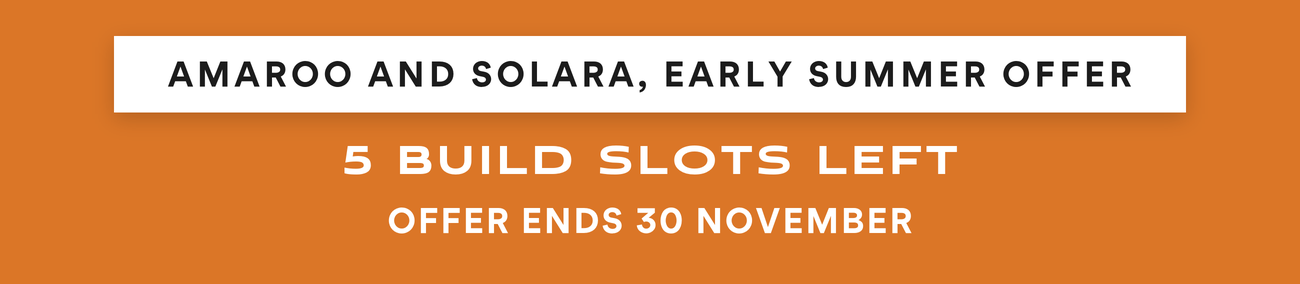
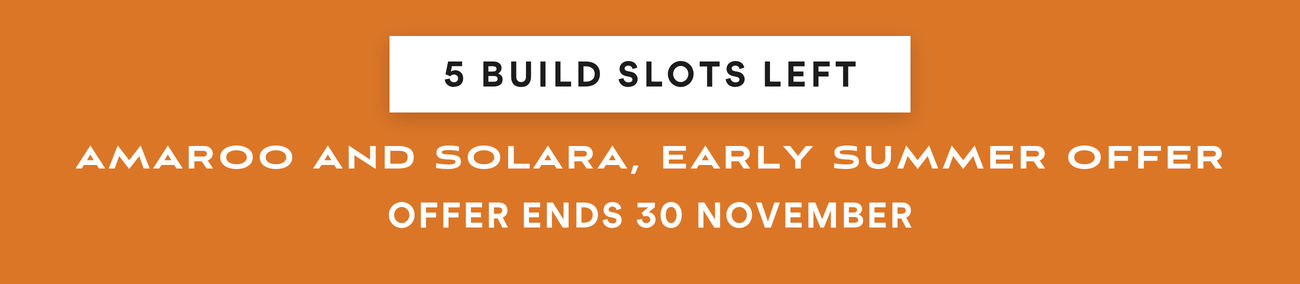
Offer email: band reordered (5 BUILD SLOTS LEFT in the box), countdown timer, upgrade valued at over $6,000 (Piyush 23 Nov 2026)

Changed region(s): [[0.0615, 0.1127, 0.9231, 0.4225], [0.0615, 0.507, 0.9538, 0.6197], [0.2769, 0.7042, 0.7077, 0.8169]]

diff --git a/offer-email/offer-email.html b/offer-email/offer-email.html
@@ -41,19 +41,20 @@ img{border:0;display:block;outline:none;text-decoration:none;-ms-interpolation-m
 
 <!-- DRAFT COPY: replace from COPY.md -->
   <tr><td style="font-size:0;line-height:0;"><a href="https://wonderlandrv.com.au/range/?utm_source=ActiveCampaign&amp;utm_medium=email&amp;utm_campaign=early-summer-upgrades&amp;utm_content=promo-final-hero" target="_blank"><img class="stackimg" src="hero-upto7500.gif" alt="Up to $7,500 in total value, on us. A Wonderland RV Amaroo and Solara on the road" width="650" height="420" style="width:650px;height:420px;display:block;font-family:arial,'helvetica neue',helvetica,sans-serif;font-size:16px;line-height:24px;color:#333333;"></a></td></tr>
-  <tr><td bgcolor="#DB7627" style="background:#DB7627;font-size:0;line-height:0;padding:0;"><img class="stackimg" src="img/band-5-slots.png" alt="Amaroo and Solara, early summer offer. 5 build slots left. Offer ends 30 November." width="650" height="142" style="width:650px;height:142px;display:block;font-family:arial,'helvetica neue',helvetica,sans-serif;font-size:15px;line-height:22px;font-weight:bold;color:#ffffff;text-align:center;"></td></tr>
+  <tr><td bgcolor="#DB7627" style="background:#DB7627;font-size:0;line-height:0;padding:0;"><img class="stackimg" src="img/band-5-slots.png" alt="5 build slots left. Amaroo and Solara, early summer offer. Offer ends 30 November." width="650" height="142" style="width:650px;height:142px;display:block;font-family:arial,'helvetica neue',helvetica,sans-serif;font-size:15px;line-height:22px;font-weight:bold;color:#ffffff;text-align:center;"></td></tr>
+  <tr><td align="center" bgcolor="#DB7627" style="background:#DB7627;padding:0 40px 18px 40px;font-size:0;line-height:0;"><img src="https://stripo.cluster.app-us1.com/api/v1/images/VL_5FX5qDg5oT04cyjlMrgjiOD97kfTRjZc4J9q9Ubc" alt="Offer ends 30 November, 11.59pm Melbourne time" width="330" height="43" style="display:block;margin:0 auto;width:330px;height:43px;border:0;outline:none;font-family:arial,'helvetica neue',helvetica,sans-serif;font-size:14px;line-height:20px;font-weight:bold;color:#ffffff;text-align:center;"></td></tr>
 
 <!-- DRAFT COPY: replace from COPY.md -->
 
   <tr><td bgcolor="#ffffff" style="font-size:0;line-height:0;background:#ffffff;"><img class="stackimg" src="img/wedge-orange-white.png" alt="" width="650" height="63" style="width:650px;height:63px;display:block;"></td></tr>
   <tr><td class="pad" align="center" bgcolor="#ffffff" style="background:#ffffff;padding:26px 40px 0 40px;font-family:arial,'helvetica neue',helvetica,sans-serif;"><div class="sechead" style="font-size:26px;line-height:31px;mso-line-height-rule:exactly;font-weight:bold;color:#DB7627;">OUR EARLY SUMMER OFFER IS STILL&nbsp;ON</div></td></tr>
-  <tr><td class="pad" align="center" bgcolor="#ffffff" style="background:#ffffff;padding:16px 40px 0px 40px;font-family:arial,'helvetica neue',helvetica,sans-serif;font-size:16px;line-height:24px;mso-line-height-rule:exactly;color:#333333;"><table width="520" cellpadding="0" cellspacing="0" border="0" role="presentation" align="center" class="fluid" style="width:520px;border-collapse:collapse;"><tbody><tr><td align="center" style="font-family:arial,'helvetica neue',helvetica,sans-serif;font-size:16px;line-height:24px;mso-line-height-rule:exactly;color:#333333;">If the Amaroo or the Solara has been on your shortlist, there&rsquo;s still time to make it yours. Order a new Wonderland RV Amaroo or Solara by 30&nbsp;November and we&rsquo;ll fit an upgrade valued at up to $6,000*, plus give you a Wonderland RV camping chair for everyone who&nbsp;travels.</td></tr></tbody></table></td></tr>
+  <tr><td class="pad" align="center" bgcolor="#ffffff" style="background:#ffffff;padding:16px 40px 0px 40px;font-family:arial,'helvetica neue',helvetica,sans-serif;font-size:16px;line-height:24px;mso-line-height-rule:exactly;color:#333333;"><table width="520" cellpadding="0" cellspacing="0" border="0" role="presentation" align="center" class="fluid" style="width:520px;border-collapse:collapse;"><tbody><tr><td align="center" style="font-family:arial,'helvetica neue',helvetica,sans-serif;font-size:16px;line-height:24px;mso-line-height-rule:exactly;color:#333333;">If the Amaroo or the Solara has been on your shortlist, there&rsquo;s still time to make it yours. Order a new Wonderland RV Amaroo or Solara by 30&nbsp;November and we&rsquo;ll fit an upgrade valued at over $6,000*, plus give you a Wonderland RV camping chair for everyone who&nbsp;travels.</td></tr></tbody></table></td></tr>
   <tr><td class="pad" align="center" bgcolor="#ffffff" style="background:#ffffff;padding:14px 40px 0px 40px;font-family:arial,'helvetica neue',helvetica,sans-serif;font-size:16px;line-height:24px;mso-line-height-rule:exactly;color:#333333;"><table width="520" cellpadding="0" cellspacing="0" border="0" role="presentation" align="center" class="fluid" style="width:520px;border-collapse:collapse;"><tbody><tr><td align="center" style="font-family:arial,'helvetica neue',helvetica,sans-serif;font-size:16px;line-height:24px;mso-line-height-rule:exactly;color:#333333;">That&rsquo;s up to $7,500 in total value, on us, and there are 5 build slots left across both&nbsp;models.</td></tr></tbody></table></td></tr>
   <tr><td bgcolor="#ffffff" style="background:#ffffff;padding:26px 0 0 0;font-size:0;line-height:0;"><img class="stackimg" src="img/chairs-offer.gif" alt="Free Wonderland RV camping chairs for everyone who travels, with a new Amaroo or Solara" width="650" height="325" style="width:650px;height:325px;display:block;font-family:arial,'helvetica neue',helvetica,sans-serif;font-size:16px;line-height:24px;color:#333333;"></td></tr>
 <!-- DRAFT COPY: replace from COPY.md -->
-  <tr><td class="pad" align="center" bgcolor="#ffffff" style="background:#ffffff;padding:18px 40px 0px 40px;font-family:arial,'helvetica neue',helvetica,sans-serif;font-size:16px;line-height:24px;mso-line-height-rule:exactly;color:#333333;"><table width="520" cellpadding="0" cellspacing="0" border="0" role="presentation" align="center" class="fluid" style="width:520px;border-collapse:collapse;"><tbody><tr><td align="center" style="font-family:arial,'helvetica neue',helvetica,sans-serif;font-size:16px;line-height:24px;mso-line-height-rule:exactly;color:#333333;">Camping chairs are valued at $250 each. With the upgrade, that&rsquo;s $6,500 in total value for a couples van with 2 chairs, $7,250 for a three&#8209;bunk with 5 and up to $7,500 for a four&#8209;bunk with&nbsp;6.</td></tr></tbody></table></td></tr>
+  <tr><td class="pad" align="center" bgcolor="#ffffff" style="background:#ffffff;padding:18px 40px 0px 40px;font-family:arial,'helvetica neue',helvetica,sans-serif;font-size:16px;line-height:24px;mso-line-height-rule:exactly;color:#333333;"><table width="520" cellpadding="0" cellspacing="0" border="0" role="presentation" align="center" class="fluid" style="width:520px;border-collapse:collapse;"><tbody><tr><td align="center" style="font-family:arial,'helvetica neue',helvetica,sans-serif;font-size:16px;line-height:24px;mso-line-height-rule:exactly;color:#333333;">Camping chairs are valued at $250 each: 2 for a couples van, 5 for a three&#8209;bunk and 6 for a four&#8209;bunk. With the upgrade, that&rsquo;s up to $7,500 in total&nbsp;value.</td></tr></tbody></table></td></tr>
   <tr><td class="pad" align="center" bgcolor="#ffffff" style="background:#ffffff;padding:34px 40px 0 40px;font-family:arial,'helvetica neue',helvetica,sans-serif;"><div class="sechead" style="font-size:26px;line-height:31px;mso-line-height-rule:exactly;font-weight:bold;color:#DB7627;">FEATURED UPGRADES</div></td></tr>
-  <tr><td class="pad" bgcolor="#ffffff" style="background:#ffffff;padding:18px 40px 0 40px;"><table width="570" cellpadding="0" cellspacing="0" border="0" role="presentation" class="fluid" style="width:570px;border-collapse:collapse;"><tbody><tr><td height="1" bgcolor="#E5E5E5" style="height:1px;font-size:0;line-height:0;background:#E5E5E5;">&nbsp;</td></tr><tr><td class="cpad" bgcolor="#ffffff" style="background:#ffffff;padding:18px 10px 0 10px;"><table width="550" cellpadding="0" cellspacing="0" border="0" role="presentation" class="fluid" style="width:550px;border-collapse:collapse;"><tbody><tr><td width="110" valign="top" style="width:110px;padding:0 0 10px 0;font-family:arial,'helvetica neue',helvetica,sans-serif;font-size:16px;line-height:24px;mso-line-height-rule:exactly;font-weight:bold;color:#000000;border-bottom:1px solid #E5E5E5;">Amaroo:</td><td valign="top" style="padding:0 0 10px 0;font-family:arial,'helvetica neue',helvetica,sans-serif;font-size:16px;line-height:24px;mso-line-height-rule:exactly;color:#333333;border-bottom:1px solid #E5E5E5;">Free airbag suspension upgrade, valued at up to&nbsp;$6,000*</td></tr><tr><td width="110" valign="top" style="width:110px;padding:0 0 10px 0;font-family:arial,'helvetica neue',helvetica,sans-serif;font-size:16px;line-height:24px;mso-line-height-rule:exactly;font-weight:bold;color:#000000;border-bottom:1px solid #E5E5E5;">Solara:</td><td valign="top" style="padding:0 0 10px 0;font-family:arial,'helvetica neue',helvetica,sans-serif;font-size:16px;line-height:24px;mso-line-height-rule:exactly;color:#333333;border-bottom:1px solid #E5E5E5;">Your choice of disc brakes or the BCS system, valued at up to&nbsp;$6,000*</td></tr><!-- DRAFT COPY: replace from COPY.md --><tr><td width="110" valign="top" style="width:110px;padding:0 0 10px 0;font-family:arial,'helvetica neue',helvetica,sans-serif;font-size:16px;line-height:24px;mso-line-height-rule:exactly;font-weight:bold;color:#000000;border-bottom:1px solid #E5E5E5;">Build slots:</td><td valign="top" style="padding:0 0 10px 0;font-family:arial,'helvetica neue',helvetica,sans-serif;font-size:16px;line-height:24px;mso-line-height-rule:exactly;color:#333333;border-bottom:1px solid #E5E5E5;">5 remaining across&nbsp;both&nbsp;models</td></tr><tr><td width="110" valign="top" style="width:110px;padding:0 0 0 0;font-family:arial,'helvetica neue',helvetica,sans-serif;font-size:16px;line-height:24px;mso-line-height-rule:exactly;font-weight:bold;color:#000000;">Orders:</td><td valign="top" style="padding:0 0 0 0;font-family:arial,'helvetica neue',helvetica,sans-serif;font-size:16px;line-height:24px;mso-line-height-rule:exactly;color:#333333;">By 3&zwnj;0 Nov&zwnj;ember&nbsp;20&zwnj;26</td></tr></tbody></table></td></tr><tr><td height="1" bgcolor="#E5E5E5" style="height:1px;font-size:0;line-height:0;background:#E5E5E5;">&nbsp;</td></tr></tbody></table></td></tr>
+  <tr><td class="pad" bgcolor="#ffffff" style="background:#ffffff;padding:18px 40px 0 40px;"><table width="570" cellpadding="0" cellspacing="0" border="0" role="presentation" class="fluid" style="width:570px;border-collapse:collapse;"><tbody><tr><td height="1" bgcolor="#E5E5E5" style="height:1px;font-size:0;line-height:0;background:#E5E5E5;">&nbsp;</td></tr><tr><td class="cpad" bgcolor="#ffffff" style="background:#ffffff;padding:18px 10px 0 10px;"><table width="550" cellpadding="0" cellspacing="0" border="0" role="presentation" class="fluid" style="width:550px;border-collapse:collapse;"><tbody><tr><td width="110" valign="top" style="width:110px;padding:0 0 10px 0;font-family:arial,'helvetica neue',helvetica,sans-serif;font-size:16px;line-height:24px;mso-line-height-rule:exactly;font-weight:bold;color:#000000;border-bottom:1px solid #E5E5E5;">Amaroo:</td><td valign="top" style="padding:0 0 10px 0;font-family:arial,'helvetica neue',helvetica,sans-serif;font-size:16px;line-height:24px;mso-line-height-rule:exactly;color:#333333;border-bottom:1px solid #E5E5E5;">Free airbag suspension upgrade, valued at over&nbsp;$6,000*</td></tr><tr><td width="110" valign="top" style="width:110px;padding:0 0 10px 0;font-family:arial,'helvetica neue',helvetica,sans-serif;font-size:16px;line-height:24px;mso-line-height-rule:exactly;font-weight:bold;color:#000000;border-bottom:1px solid #E5E5E5;">Solara:</td><td valign="top" style="padding:0 0 10px 0;font-family:arial,'helvetica neue',helvetica,sans-serif;font-size:16px;line-height:24px;mso-line-height-rule:exactly;color:#333333;border-bottom:1px solid #E5E5E5;">Your choice of disc brakes or the BCS system, valued at over&nbsp;$6,000*</td></tr><!-- DRAFT COPY: replace from COPY.md --><tr><td width="110" valign="top" style="width:110px;padding:0 0 10px 0;font-family:arial,'helvetica neue',helvetica,sans-serif;font-size:16px;line-height:24px;mso-line-height-rule:exactly;font-weight:bold;color:#000000;border-bottom:1px solid #E5E5E5;">Build slots:</td><td valign="top" style="padding:0 0 10px 0;font-family:arial,'helvetica neue',helvetica,sans-serif;font-size:16px;line-height:24px;mso-line-height-rule:exactly;color:#333333;border-bottom:1px solid #E5E5E5;">5 remaining across&nbsp;both&nbsp;models</td></tr><tr><td width="110" valign="top" style="width:110px;padding:0 0 0 0;font-family:arial,'helvetica neue',helvetica,sans-serif;font-size:16px;line-height:24px;mso-line-height-rule:exactly;font-weight:bold;color:#000000;">Orders:</td><td valign="top" style="padding:0 0 0 0;font-family:arial,'helvetica neue',helvetica,sans-serif;font-size:16px;line-height:24px;mso-line-height-rule:exactly;color:#333333;">By 3&zwnj;0 Nov&zwnj;ember&nbsp;20&zwnj;26</td></tr></tbody></table></td></tr><tr><td height="1" bgcolor="#E5E5E5" style="height:1px;font-size:0;line-height:0;background:#E5E5E5;">&nbsp;</td></tr></tbody></table></td></tr>
   <tr><td class="pad" align="center" bgcolor="#ffffff" style="background:#ffffff;padding:22px 40px 0px 40px;font-size:0;line-height:0;"><a href="https://wonderlandrv.com.au/range/amaroo/?utm_source=ActiveCampaign&amp;utm_medium=email&amp;utm_campaign=early-summer-upgrades&amp;utm_content=promo-final-amaroo" target="_blank"><img src="img/btn-claim-the-amaroo-upgrade.png" alt="CLAIM THE AMAROO UPGRADE" width="350" height="52" style="width:350px;height:52px;display:block;margin:0 auto;font-family:arial,'helvetica neue',helvetica,sans-serif;font-size:13px;line-height:52px;font-weight:bold;letter-spacing:2px;color:#ffffff;text-align:center;background-color:#DB7627;"></a></td></tr>
   <tr><td class="pad" align="center" bgcolor="#ffffff" style="background:#ffffff;padding:12px 40px 0px 40px;font-size:0;line-height:0;"><a href="https://wonderlandrv.com.au/range/solara/?utm_source=ActiveCampaign&amp;utm_medium=email&amp;utm_campaign=early-summer-upgrades&amp;utm_content=promo-final-solara" target="_blank"><img src="img/btn-claim-the-solara-upgrade.png" alt="CLAIM THE SOLARA UPGRADE" width="350" height="52" style="width:350px;height:52px;display:block;margin:0 auto;font-family:arial,'helvetica neue',helvetica,sans-serif;font-size:13px;line-height:52px;font-weight:bold;letter-spacing:2px;color:#ffffff;text-align:center;background-color:#DB7627;"></a></td></tr>
   <tr><td class="pad" align="center" bgcolor="#ffffff" style="background:#ffffff;padding:18px 40px 0 40px;font-family:arial,'helvetica neue',helvetica,sans-serif;font-size:14px;line-height:21px;mso-line-height-rule:exactly;color:#555555;text-align:center;">Click a button to claim your offer and the team will be notified and give&nbsp;you&nbsp;a&nbsp;call.</td></tr>
@@ -64,13 +65,13 @@ img{border:0;display:block;outline:none;text-decoration:none;-ms-interpolation-m
   <tr><td class="pad" align="center" bgcolor="#ffffff" style="background:#ffffff;padding:22px 40px 0 40px;font-size:0;line-height:0;"><a href="https://wonderlandrv.com.au/range/amaroo/?utm_source=ActiveCampaign&amp;utm_medium=email&amp;utm_campaign=early-summer-upgrades&amp;utm_content=promo-final" target="_blank"><img class="stackimg" src="https://wonderlandrv.com.au/wp-content/uploads/2026/10/es26-edm-amaroo-airbags-clip.gif" alt="Cruisemaster airbag suspension under an Amaroo" width="550" height="300" style="width:550px;height:300px;display:block;margin:0 auto;font-family:arial,'helvetica neue',helvetica,sans-serif;font-size:16px;line-height:24px;color:#333333;"></a></td></tr>
   <tr><td class="pad" align="center" bgcolor="#ffffff" style="background:#ffffff;padding:20px 40px 0px 40px;font-family:arial,'helvetica neue',helvetica,sans-serif;font-size:16px;line-height:24px;mso-line-height-rule:exactly;color:#333333;"><table width="520" cellpadding="0" cellspacing="0" border="0" role="presentation" align="center" class="fluid" style="width:520px;border-collapse:collapse;"><tbody><tr><td align="center" style="font-family:arial,'helvetica neue',helvetica,sans-serif;font-size:16px;line-height:24px;mso-line-height-rule:exactly;color:#333333;"><strong style="color:#000000">Airbag suspension on&nbsp;the&nbsp;Amaroo</strong></td></tr></tbody></table></td></tr>
   <tr><td class="pad" align="center" bgcolor="#ffffff" style="background:#ffffff;padding:10px 40px 0px 40px;font-family:arial,'helvetica neue',helvetica,sans-serif;font-size:16px;line-height:24px;mso-line-height-rule:exactly;color:#333333;"><table width="520" cellpadding="0" cellspacing="0" border="0" role="presentation" align="center" class="fluid" style="width:520px;border-collapse:collapse;"><tbody><tr><td align="center" style="font-family:arial,'helvetica neue',helvetica,sans-serif;font-size:16px;line-height:24px;mso-line-height-rule:exactly;color:#333333;">This replaces the standard coil suspension. It soaks up corrugations and keeps your van planted on rough tracks. The Amaroo already comes with a composite one-piece wrap-around front, roof and back wall, with SPR (self-piercing riveted) aluminium side frames. It runs a Redarc Alpha 50 off-grid system with 300Ah of lithium and 600W&nbsp;of&nbsp;solar.</td></tr></tbody></table></td></tr>
-  <tr><td class="pad" align="center" bgcolor="#ffffff" style="background:#ffffff;padding:10px 40px 0px 40px;font-family:arial,'helvetica neue',helvetica,sans-serif;font-size:16px;line-height:24px;mso-line-height-rule:exactly;color:#333333;"><table width="520" cellpadding="0" cellspacing="0" border="0" role="presentation" align="center" class="fluid" style="width:520px;border-collapse:collapse;"><tbody><tr><td align="center" style="font-family:arial,'helvetica neue',helvetica,sans-serif;font-size:16px;line-height:24px;mso-line-height-rule:exactly;color:#333333;"><strong style="color:#000000">Valued at up to&nbsp;$6,000*.</strong></td></tr></tbody></table></td></tr>
+  <tr><td class="pad" align="center" bgcolor="#ffffff" style="background:#ffffff;padding:10px 40px 0px 40px;font-family:arial,'helvetica neue',helvetica,sans-serif;font-size:16px;line-height:24px;mso-line-height-rule:exactly;color:#333333;"><table width="520" cellpadding="0" cellspacing="0" border="0" role="presentation" align="center" class="fluid" style="width:520px;border-collapse:collapse;"><tbody><tr><td align="center" style="font-family:arial,'helvetica neue',helvetica,sans-serif;font-size:16px;line-height:24px;mso-line-height-rule:exactly;color:#333333;"><strong style="color:#000000">Valued at over&nbsp;$6,000*.</strong></td></tr></tbody></table></td></tr>
   <tr><td class="pad" align="center" bgcolor="#ffffff" style="background:#ffffff;padding:22px 40px 0px 40px;font-size:0;line-height:0;"><a href="https://wonderlandrv.com.au/range/amaroo/?utm_source=ActiveCampaign&amp;utm_medium=email&amp;utm_campaign=early-summer-upgrades&amp;utm_content=promo-final-amaroo-2" target="_blank"><img src="img/btn-claim-the-amaroo-upgrade.png" alt="CLAIM THE AMAROO UPGRADE" width="350" height="52" style="width:350px;height:52px;display:block;margin:0 auto;font-family:arial,'helvetica neue',helvetica,sans-serif;font-size:13px;line-height:52px;font-weight:bold;letter-spacing:2px;color:#ffffff;text-align:center;background-color:#DB7627;"></a></td></tr>
   <tr><td class="pad" align="center" bgcolor="#ffffff" style="background:#ffffff;padding:34px 40px 0 40px;font-family:arial,'helvetica neue',helvetica,sans-serif;"><div class="sechead" style="font-size:26px;line-height:31px;mso-line-height-rule:exactly;font-weight:bold;color:#DB7627;">SOLARA</div></td></tr>
   <tr><td class="pad" align="center" bgcolor="#ffffff" style="background:#ffffff;padding:22px 40px 0 40px;font-size:0;line-height:0;"><a href="https://wonderlandrv.com.au/range/solara/?utm_source=ActiveCampaign&amp;utm_medium=email&amp;utm_campaign=early-summer-upgrades&amp;utm_content=promo-final" target="_blank"><img class="stackimg" src="https://wonderlandrv.com.au/wp-content/uploads/2026/10/es26-edm-row-solara-disc-bcs.gif" alt="Disc brakes and the Cruisemaster BCS system, the two Solara upgrade options" width="550" height="300" style="width:550px;height:300px;display:block;margin:0 auto;font-family:arial,'helvetica neue',helvetica,sans-serif;font-size:16px;line-height:24px;color:#333333;"></a></td></tr>
   <tr><td class="pad" align="center" bgcolor="#ffffff" style="background:#ffffff;padding:20px 40px 0px 40px;font-family:arial,'helvetica neue',helvetica,sans-serif;font-size:16px;line-height:24px;mso-line-height-rule:exactly;color:#333333;"><table width="520" cellpadding="0" cellspacing="0" border="0" role="presentation" align="center" class="fluid" style="width:520px;border-collapse:collapse;"><tbody><tr><td align="center" style="font-family:arial,'helvetica neue',helvetica,sans-serif;font-size:16px;line-height:24px;mso-line-height-rule:exactly;color:#333333;"><strong style="color:#000000">Disc brakes or the BCS system on&nbsp;the&nbsp;Solara</strong></td></tr></tbody></table></td></tr>
   <tr><td class="pad" align="center" bgcolor="#ffffff" style="background:#ffffff;padding:10px 40px 0px 40px;font-family:arial,'helvetica neue',helvetica,sans-serif;font-size:16px;line-height:24px;mso-line-height-rule:exactly;color:#333333;"><table width="520" cellpadding="0" cellspacing="0" border="0" role="presentation" align="center" class="fluid" style="width:520px;border-collapse:collapse;"><tbody><tr><td align="center" style="font-family:arial,'helvetica neue',helvetica,sans-serif;font-size:16px;line-height:24px;mso-line-height-rule:exactly;color:#333333;">Choose one. Disc brakes replace the standard 12 inch drum brakes. The BCS system is the same Cruisemaster ATX Level 5 BCS system the XTR has as standard, and it goes in place of the Solara&rsquo;s standard Cruisemaster XT Level 3 airbag suspension. The Solara already comes with frameless composite sandwich panel construction and a Victron off-grid system with 400Ah of lithium and 1000W&nbsp;of&nbsp;solar.</td></tr></tbody></table></td></tr>
-  <tr><td class="pad" align="center" bgcolor="#ffffff" style="background:#ffffff;padding:10px 40px 0px 40px;font-family:arial,'helvetica neue',helvetica,sans-serif;font-size:16px;line-height:24px;mso-line-height-rule:exactly;color:#333333;"><table width="520" cellpadding="0" cellspacing="0" border="0" role="presentation" align="center" class="fluid" style="width:520px;border-collapse:collapse;"><tbody><tr><td align="center" style="font-family:arial,'helvetica neue',helvetica,sans-serif;font-size:16px;line-height:24px;mso-line-height-rule:exactly;color:#333333;"><strong style="color:#000000">Valued at up to&nbsp;$6,000*.</strong></td></tr></tbody></table></td></tr>
+  <tr><td class="pad" align="center" bgcolor="#ffffff" style="background:#ffffff;padding:10px 40px 0px 40px;font-family:arial,'helvetica neue',helvetica,sans-serif;font-size:16px;line-height:24px;mso-line-height-rule:exactly;color:#333333;"><table width="520" cellpadding="0" cellspacing="0" border="0" role="presentation" align="center" class="fluid" style="width:520px;border-collapse:collapse;"><tbody><tr><td align="center" style="font-family:arial,'helvetica neue',helvetica,sans-serif;font-size:16px;line-height:24px;mso-line-height-rule:exactly;color:#333333;"><strong style="color:#000000">Valued at over&nbsp;$6,000*.</strong></td></tr></tbody></table></td></tr>
   <tr><td class="pad" align="center" bgcolor="#ffffff" style="background:#ffffff;padding:22px 40px 0px 40px;font-size:0;line-height:0;"><a href="https://wonderlandrv.com.au/range/solara/?utm_source=ActiveCampaign&amp;utm_medium=email&amp;utm_campaign=early-summer-upgrades&amp;utm_content=promo-final-solara-2" target="_blank"><img src="img/btn-claim-the-solara-upgrade.png" alt="CLAIM THE SOLARA UPGRADE" width="350" height="52" style="width:350px;height:52px;display:block;margin:0 auto;font-family:arial,'helvetica neue',helvetica,sans-serif;font-size:13px;line-height:52px;font-weight:bold;letter-spacing:2px;color:#ffffff;text-align:center;background-color:#DB7627;"></a></td></tr>
 
   <tr><td class="pad" align="center" bgcolor="#ffffff" style="background:#ffffff;padding:34px 40px 34px 40px;font-family:arial,'helvetica neue',helvetica,sans-serif;font-size:12px;line-height:18px;mso-line-height-rule:exactly;color:#777777;text-align:center;"><strong>*T&amp;Cs apply.</strong></td></tr>
